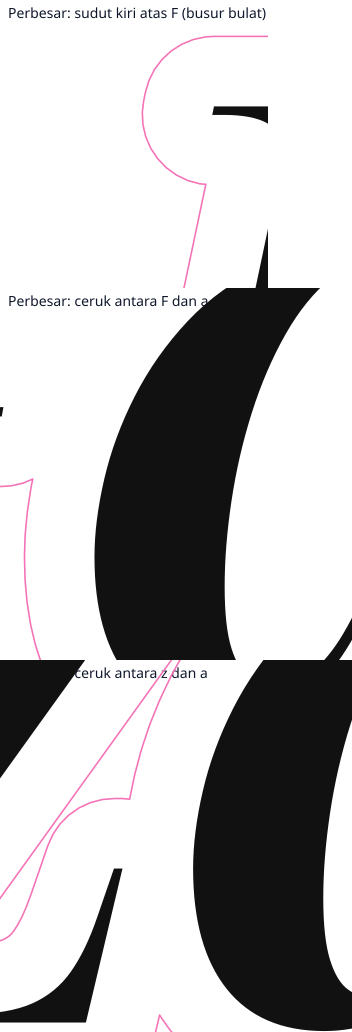
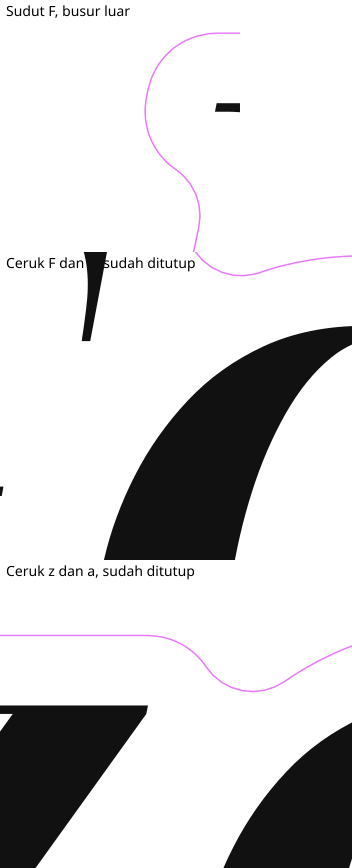
fix(contour): fill sharp letter notches without moving the outer edge
After the 2.5 mm round offset, close notches narrower than 4 mm on each
piece. The outer cut stays at 2.5 mm and a separate word space stays open.

diff --git a/lib/clipper-outline.ts b/lib/clipper-outline.ts
@@ -68,6 +68,25 @@ function clipperPathsToSvgD(paths: ClipperLib.Paths): string | null {
 }
 
 /**
+ * Fills notches narrower than `gapWidth` on each path separately.
+ * Doing it per path (not on the whole set at once) keeps two pieces that
+ * are already apart — a word space — from growing back together.
+ * Round joins, so the filled notch becomes an arc, not a flat chord.
+ */
+function closeEachPath(paths: ClipperLib.Paths, gapWidth: number, arcTolerance: number): ClipperLib.Paths {
+  if (gapWidth <= 1e-9) return paths;
+  const radius = gapWidth / 2;
+  const closed: ClipperLib.Paths = [];
+  for (const path of paths) {
+    const grown = offsetPaths([path], radius, arcTolerance);
+    const shrunk = offsetPaths(grown, -radius, arcTolerance);
+    if (shrunk.length > 0) closed.push(...shrunk);
+    else closed.push(path);
+  }
+  return keepOuterOrientation(closed);
+}
+
+/**
  * Offsets closed paths by `delta` path-units (positive = outward).
  * `arcTolerance` is the maximum distance between a true round join and the
  * straight segments that replace it, in the same units as the path — not
@@ -156,13 +175,13 @@ export interface ProductionOutlineOptions {
  *
  * 1. Union the design and drop interior holes, so the middle of "O" stays
  *    solid acrylic and the laser sees one outer silhouette.
- * 2. Optional closing (`gapClose`, default 0). Left off so inner bays keep
- *    following the letter. A non-zero value fills gaps of that width first.
- * 3. Offset outward by `offset` (default 2.5 mm) with round joins. The join
+ * 2. Offset outward by `offset` (default 2.5 mm) with round joins. The join
  *    is a circular arc of that radius. Gaps narrower than twice the offset
- *    close on their own. Curves are flattened only to `curveTolerance`
- *    (0.01 mm), which is what keeps the line from looking like straight
- *    chords when a corner is enlarged.
+ *    close on their own. A straight edge moves by exactly this distance.
+ * 3. Close each resulting piece by `gapClose` (default 4 mm). That fills
+ *    the sharp cusps left between letters without moving the outer edge
+ *    and without joining a separate word. Curves stay within
+ *    `curveTolerance` (0.01 mm).
  *
  * The old dilate(4 mm)/erode(1.5 mm) pass is not this. It closed gaps up to
  * 8 mm and then ate the bays back into flat bridges. `computeLaserOutlineClipper`
@@ -180,18 +199,15 @@ export function computeProductionOutline(shapes: string[], options: ProductionOu
     let paths = keepOuterOrientation(unionClipperPaths(subjectPaths));
     if (paths.length === 0) return null;
 
-    if (gapClose > 1e-9) {
-      const radius = gapClose / 2;
-      const grown = offsetPaths(paths, radius, curveTolerance);
-      const shrunk = offsetPaths(grown, -radius, curveTolerance);
-      if (shrunk.length > 0) paths = keepOuterOrientation(shrunk);
-    }
-
     if (offset > 1e-9) {
       const grown = offsetPaths(paths, offset, curveTolerance);
       if (grown.length === 0) return null;
       paths = keepOuterOrientation(grown);
     }
+
+    // After the offset, so the outer edge stays put. Per piece, so a word
+    // space that is already its own contour is not pulled shut.
+    paths = closeEachPath(paths, gapClose, curveTolerance);
 
     return clipperPathsToSvgD(paths);
   } catch {

diff --git a/lib/contour-outline.test.ts b/lib/contour-outline.test.ts
@@ -143,17 +143,42 @@ describe("production contour", () => {
 
   test("offset and gap threshold are configurable, and the defaults match Corel 0.25 cm", () => {
     assert.equal(OUTLINE_OFFSET_MM, 2.5);
-    assert.equal(GAP_CLOSE_MM, 0);
+    assert.equal(GAP_CLOSE_MM, 4);
 
     const wide = computeProductionOutline([rect(0, 0, 20, 10)], { offset: 1, gapClose: 0 });
     assert.ok(wide);
     const b = boundsOf(pointsOf(wide));
     assert.ok(Math.abs(-b.minX - 1) < 0.03);
 
-    const closed = computeProductionOutline([rect(0, 0, 10, 16), rect(14, 0, 10, 16)], { gapClose: 5, offset: 0 });
-    const open = computeProductionOutline([rect(0, 0, 10, 16), rect(14, 0, 10, 16)], { gapClose: 3, offset: 0 });
-    assert.equal(subpaths(closed), 1, "a 4 mm gap closes when the threshold is 5 mm");
-    assert.equal(subpaths(open), 2, "the same 4 mm gap stays open when the threshold is 3 mm");
+    // Closing is per piece, so it fills a notch but does not pull two
+    // separate shapes together. The offset is what joins a narrow gap.
+    const separate = computeProductionOutline([rect(0, 0, 10, 16), rect(14, 0, 10, 16)], { gapClose: 8, offset: 0 });
+    assert.equal(subpaths(separate), 2, "closing one piece at a time leaves a 4 mm gap as two pieces");
+  });
+
+  test("notches narrower than the threshold are filled and the outer edge stays put", () => {
+    // 8 mm bay. A 2.5 mm offset leaves a channel about 3 mm wide, which the
+    // default 4 mm close then fills. A 14 mm bay stays open.
+    const narrow = "M 0 0 H 16 V 12 H 24 V 0 H 40 V 24 H 0 Z";
+    const wideBay = "M 0 0 H 13 V 12 H 27 V 0 H 40 V 24 H 0 Z";
+    const filled = computeProductionOutline([narrow]);
+    const open = computeProductionOutline([wideBay]);
+    const spared = computeProductionOutline([narrow], { gapClose: 0 });
+    assert.ok(filled && open && spared);
+
+    const depth = (d: string) => {
+      const pts = pointsOf(d);
+      const outer = Math.min(...pts.filter((p) => p.x < 3 || p.x > 37).map((p) => p.y));
+      const floor = Math.max(...pts.filter((p) => p.x > 16 && p.x < 24).map((p) => p.y));
+      return floor - outer;
+    };
+    assert.ok(depth(spared) > 8, `without closing the channel stays deep (${depth(spared)})`);
+    assert.ok(depth(filled) < 3, `default close fills the narrow channel (${depth(filled)})`);
+    assert.ok(depth(open) > 6, `a 14 mm bay stays (${depth(open)})`);
+
+    const box = boundsOf(pointsOf(computeProductionOutline([rect(0, 0, 30, 12)])!));
+    const bare = boundsOf(pointsOf(computeProductionOutline([rect(0, 0, 30, 12)], { gapClose: 0 })!));
+    assert.ok(Math.abs(box.minX - bare.minX) < 0.02, "closing does not move the outer edge");
   });
 
   test("the 2.5 mm offset itself closes a 4 mm letter gap and leaves a 6 mm gap open", () => {

diff --git a/lib/keychain-geometry.ts b/lib/keychain-geometry.ts
@@ -89,13 +89,14 @@ export const MAX_LAYOUT_OFFSET_MM = 15;
 export const OUTLINE_OFFSET_MM = 2.5;
 
 /**
- * Extra morphological closing, applied before the offset, in mm of gap
- * width (the closing radius is half). Default 0: the 2.5 mm offset already
- * closes the small gaps between letters, and a separate closing was flattening
- * the bays the Corel sample still follows (between F and a, between z and a).
- * Raise this only when a gap wider than 2 × OUTLINE_OFFSET_MM must still join.
+ * After the 2.5 mm offset, fill concave notches narrower than this (mm).
+ * The closing radius is half of it. It runs on each already-offset piece
+ * by itself, so a straight outer edge does not move and a word space that
+ * is already a separate piece stays open. 4 mm rounds off the sharp
+ * cusps between letters in "Faza" (and the other samples) into a smooth
+ * arc without bridging the ~3 mm gap that remains between words.
  */
-export const GAP_CLOSE_MM = 0;
+export const GAP_CLOSE_MM = 4;
 
 /**
  * Round-off used only where a ring-hole washer or a character silhouette

diff --git a/lib/keychain-render.ts b/lib/keychain-render.ts
@@ -118,8 +118,8 @@ interface ScaledRenderResult {
  *
  * Kept fixed regardless of either target height (physical/hardware
  * constants, not design proportions): OUTLINE_OFFSET_MM (Corel contour
- * 0.25 cm = 2.5 mm, round join) and GAP_CLOSE_MM (extra closing, default
- * off — the offset itself bridges letter gaps),
+ * 0.25 cm = 2.5 mm, round join) and GAP_CLOSE_MM (fills sharp notches
+ * on that contour without moving the outer edge),
  * RING_HOLE_DIAMETER_MM (a fixed hardware-fit spec), and
  * MARGIN_MM/RING_HOLE_OFFSET_MM/holeOffsetX/Y (fixed real-world layout
  * spacing, not tied to either node's own size). template.dynamicGapX/

diff --git a/lib/text-ring-hole-preview.ts b/lib/text-ring-hole-preview.ts
@@ -10,7 +10,8 @@
  *   1. Text -> path: the caller's own `ColoredTextRender` (font-preview.ts).
  *   2. Contour: one outward round-join offset of OUTLINE_OFFSET_MM (2.5 mm,
  *      Corel contour 0.25 cm). Letter gaps narrower than twice that close
- *      by themselves. GAP_CLOSE_MM stays 0 unless an extra close is asked for.
+ *      by themselves. GAP_CLOSE_MM (4 mm) then fills the sharp cusps that
+ *      remain, without moving the outer edge.
  *   3. Bounding box FROM THE CONTOUR, not the raw glyph bbox.
  *   4. Hole anchor: X = contour's own leftmost point; Y = the vertical
  *      midpoint of the FIRST LETTER's own contour.

diff --git a/docs/contour/PENGUKURAN.md b/docs/contour/PENGUKURAN.md
@@ -2,7 +2,7 @@
 
 Tanggal: 10 November 2026. Koreksi satuan dari Rofiq: offset yang diminta adalah Contour CorelDRAW ke luar, 1 langkah, **0,25 cm = 2,5 mm**. Bukan 0,25 mm.
 
-Font sampel nama: DejaVu Sans. Tinggi teks jadi 20 mm (huruf mentah 15 mm, lalu offset 2,5 mm di tiap sisi). “Sebelum” adalah mesin lama: gemuk 4 mm lalu susut 1,5 mm, kurva diratakan pada 0,05 mm. Jarak luarnya juga sekitar 2,5 mm, tetapi ratakan kasar dan celah sampai 8 mm ditutup sehingga ceruk jadi rata. “Sesudah” adalah satu offset 2,5 mm dengan sambungan bulat (`jtRound`), simpangan kurva 0,01 mm, tanpa closing tambahan.
+Font sampel nama: DejaVu Sans. Tinggi teks jadi 20 mm (huruf mentah 15 mm, lalu offset 2,5 mm di tiap sisi). “Sebelum” adalah mesin lama: gemuk 4 mm lalu susut 1,5 mm, kurva diratakan pada 0,05 mm. “Sesudah” adalah offset 2,5 mm dengan sambungan bulat, lalu ceruk yang lebih sempit dari 4 mm diisi dengan closing bundar. Pinggiran luar tidak bergeser.
 
 Gambar nama: [images/perbandingan.png](images/perbandingan.png). Merah = mesin lama. Biru = kontur baru.
 
@@ -14,18 +14,17 @@ Offset adalah jarak median garis potong ke tepi huruf, dalam mm. Keping = jumlah
 
 | Nama | Offset lama | Offset baru | Titik lama | Titik baru | Keping |
 | --- | --- | --- | --- | --- | --- |
-| O | 2,50 | 2,50 | 335 | 128 | 1 → 1 |
-| BOBO | 2,50 | 2,50 | 1.060 | 322 | 1 → 1 |
-| Ali | 2,50 | 2,50 | 876 | 113 | 1 → 1 |
-| Siti | 2,50 | 2,50 | 994 | 234 | 1 → 1 |
-| Qonita | 2,50 | 2,50 | 1.514 | 381 | 1 → 1 |
-| Muhammad Al-Fatih | 2,50 | 2,50 | 5.705 | 1.156 | 2 → 2 |
-| Faza (22 mm) | 2,50 | 2,50 | 1.816 | 455 | 1 → 1 |
-| Faza (tinggi produksi 15 mm) | — | 2,50 | — | 284 | 1 |
+| O | 2,50 | 2,50 | 335 | 233 | 1 → 1 |
+| BOBO | 2,50 | 2,50 | 1.060 | 520 | 1 → 1 |
+| Ali | 2,50 | 2,49 | 876 | 219 | 1 → 1 |
+| Siti | 2,50 | 2,50 | 994 | 379 | 1 → 1 |
+| Qonita | 2,50 | 2,50 | 1.514 | 592 | 1 → 1 |
+| Muhammad Al-Fatih | 2,50 | 2,50 | 5.705 | 1.694 | 2 → 2 |
+| Faza (22 mm) | 2,50 | 2,50 | 1.816 | 682 | 1 → 1 |
 
 Dua keping pada nama panjang adalah spasi kata, yang lebih lebar dari 5 mm, jadi tidak disambung. Itu sama dengan mesin lama.
 
-Kotak dengan celah 4 mm menjadi satu keping. Celah 6 mm tetap dua keping. Sudut kotak terukur sebagai busur jari-jari 2,5 mm, simpangan tali busur di bawah 0,02 mm. Teluk lebar 12 mm tidak ditutup rata. Lingkaran yang di-offset 2,5 mm menyimpang kurang dari 0,02 mm dari lingkaran sungguhan.
+Kotak dengan celah 4 mm menjadi satu keping karena offset. Celah 6 mm tetap dua keping. Sudut kotak terukur sebagai busur jari-jari 2,5 mm. Teluk yang tersisa sekitar 3 mm sesudah offset diisi oleh ambang 4 mm. Teluk 14 mm tetap terbuka. Pinggiran luar kotak tidak bergeser saat ceruk ditutup. Lingkaran yang di-offset 2,5 mm menyimpang kurang dari 0,02 mm dari lingkaran sungguhan.
 
 Lubang 1,9 mm: file lama sekitar 16 sisi. File baru entity `CIRCLE` jari-jari 0,95 mm.
 
@@ -36,6 +35,6 @@ Jumlah titik turun (nama panjang 5.705 menjadi 1.156) karena toleransi busur tid
 Di `lib/keychain-geometry.ts`:
 
 - `OUTLINE_OFFSET_MM` — jarak kontur. Bawaan 2,5.
-- `GAP_CLOSE_MM` — closing tambahan sebelum offset. Bawaan 0. Naikkan hanya jika ada celah lebih lebar dari 5 mm yang harus disambung.
+- `GAP_CLOSE_MM` — lebar ceruk yang diisi sesudah offset. Bawaan 4. Radiusnya 2 mm. Naikkan jika masih ada takik tipis. Turunkan jika lekukan huruf yang ingin dipertahankan ikut hilang. Spasi kata tidak tersambung selama kepingnya sudah terpisah.
 - `SEAM_ROUND_MM` — fillet kecil (0,6 mm) hanya di sambungan washer atau karakter, bukan offset kedua.
 - `CURVE_TOLERANCE_MM` — 0,01. Menaikkannya membuat garis lebih patah. Menurunkannya memperbanyak titik.

diff --git a/docs/ARCHITECTURE.md b/docs/ARCHITECTURE.md
@@ -82,7 +82,7 @@ Menghapus resi (`DELETE /api/orders/[id]`) ikut menghapus item pesanan dan item 
 ## Mesin gambar dan nesting
 
 - `lib/keychain-render.ts` — mode dinamis. Teks dari font, garis potong dengan Clipper, lubang cincin, batas lebar 80 mm.
-- `lib/clipper-outline.ts` — `computeProductionOutline`. Ini padanan Contour CorelDRAW ke luar, 1 langkah: gabungkan bentuk, buang lubang dalam huruf, lalu geser keluar `OUTLINE_OFFSET_MM` (2,5 mm, yaitu 0,25 cm) dengan sambungan bulat. Jari-jari busur sudut sama dengan offset. Celah yang lebih sempit dari 5 mm menyatu karena offset itu. `GAP_CLOSE_MM` bawaan 0 — closing tambahan meratakan ceruk yang di sampel Corel masih mengikuti lekukan. Pratinjau memakai fungsi yang sama, satuannya piksel. Mode tetap tidak memanggil offset ini. Sambungan washer/karakter hanya difillet `SEAM_ROUND_MM` (0,6 mm), tanpa offset kedua.
+- `lib/clipper-outline.ts` — `computeProductionOutline`. Ini padanan Contour CorelDRAW ke luar, 1 langkah, lalu penutup ceruk: gabungkan bentuk, buang lubang dalam huruf, geser keluar `OUTLINE_OFFSET_MM` (2,5 mm, yaitu 0,25 cm) dengan sambungan bulat. Celah yang lebih sempit dari 5 mm menyatu karena offset itu. Sesudahnya tiap keping ditutup dengan closing bundar selebar `GAP_CLOSE_MM` (bawaan 4 mm, radius 2 mm) supaya ceruk tajam antar huruf jadi busur, tanpa menggeser pinggiran luar dan tanpa menyambung spasi kata yang sudah terpisah. Pratinjau memakai fungsi yang sama, satuannya piksel. Mode tetap tidak memanggil offset ini. Sambungan washer/karakter hanya difillet `SEAM_ROUND_MM` (0,6 mm), tanpa offset kedua.
 - `lib/export-dxf.ts` — garis potong menjadi polyline dengan simpangan kurva paling besar `CURVE_TOLERANCE_MM` (0,01 mm), sambungan bulat. Lubang gantungan yang masih berupa lingkaran ditulis sebagai entity `CIRCLE`, termasuk setelah path-nya diubah paper.js menjadi kurva kubik dan setelah keping diputar 90 derajat.
 - `lib/keychain-render-fixed.ts` — mode tetap. SVG master sudah punya garis potong. Aplikasi hanya menaruh teks atau foto di zona.
 - `lib/render-dispatcher.ts` — memilih renderer sesuai `layoutMode`.

diff --git a/docs/PRD.md b/docs/PRD.md
@@ -142,7 +142,7 @@ Yang belum diputuskan ada di bagian nesting. Jawaban kontur sudah ditulis di baw
 Rofiq menjawab pada 10 November 2026. Angkanya ada di `lib/keychain-geometry.ts`. Ukurannya ada di [docs/contour/PENGUKURAN.md](contour/PENGUKURAN.md).
 
 1. Jarak garis potong dari tepi desain = **2,5 mm** (`OUTLINE_OFFSET_MM`). Itu Contour CorelDRAW ke luar, 1 langkah, offset **0,25 cm**. Angka 0,25 mm yang sempat ditulis adalah salah satuan. Pada sampel, median terukur 2,50 mm. Sudut cembung jadi busur bulat dengan jari-jari 2,5 mm (round join).
-2. Celah kecil antar huruf tertutup karena offset itu sendiri: celah lebih sempit dari 5 mm menyatu. Spasi kata sekitar 8–10 mm tetap terbuka. `GAP_CLOSE_MM` bawaan 0. Closing morfologi tambahan tidak dipakai, karena itu meratakan ceruk yang di sampel Corel masih mengikuti lekukan huruf (antara F dan a, antara z dan a).
+2. Celah kecil antar huruf yang lebih sempit dari 5 mm menyatu karena offset 2,5 mm. Setelah itu, ceruk tajam yang tersisa di dalam siluet (antara F dan a, antara z dan a, dan lekukan sempit di sambungan) ditutup dengan closing bundar. Ambang bawaan `GAP_CLOSE_MM` = **4 mm**: ceruk yang lebih sempit dari itu diisi jadi busur mulus. Closing dijalankan per keping sesudah offset, jadi pinggiran luar tidak bergeser dari 2,5 mm, dan spasi kata yang sudah terpisah tetap terbuka. Angka ini bisa diubah di `lib/keychain-geometry.ts`.
 3. Lubang dalam huruf (tengah O) dan mata gambar tetap tidak dipotong. Lubang dalam yang kecil pada siluet luar tertutup oleh offset 2,5 mm. Yang ditutup adalah celah, bukan garis potong di dalam huruf.
 4. Foto PNG tanpa vektor tetap menjadi kotak. Layar template sekarang memperingatkan “bukan vektor”.
 5. Kurva diratakan dengan simpangan paling besar 0,01 mm supaya busur tidak terlihat patah saat diperbesar. Lubang gantungan 1,9 mm di file DXF ditulis sebagai lingkaran, bukan segi 16.

diff --git a/docs/ROADMAP.md b/docs/ROADMAP.md
@@ -19,7 +19,7 @@ Yang terukur pada mesin lama, sebelum angka diubah: offset 2,50 mm, celah antar 
 Yang dipakai sekarang:
 
 - `OUTLINE_OFFSET_MM` = 2,5. Itu 0,25 cm di CorelDRAW (Contour ke luar, 1 langkah). Pada enam sampel nama plus “Faza”, median offset 2,50 mm. Sudut cembung adalah busur jari-jari 2,5 mm.
-- Celah antar huruf lebih sempit dari 5 mm tertutup oleh offset itu. `GAP_CLOSE_MM` bawaan 0 supaya ceruk dalam (antara F dan a, antara z dan a) tetap mengikuti lekukan, tidak diratakan. Spasi kata tetap terbuka.
+- Celah antar huruf lebih sempit dari 5 mm tertutup oleh offset itu. `GAP_CLOSE_MM` = 4 mengisi ceruk yang lebih sempit dari 4 mm pada siluet yang sudah di-offset, dengan busur bundar. Pinggiran luar tetap 2,5 mm. Spasi kata tetap terbuka karena closing dijalankan per keping.
 - Lubang dalam huruf O tidak dipotong, sesuai keputusan.
 - PNG tanpa vektor memunculkan peringatan di layar template.
 - Lubang gantungan di DXF adalah lingkaran. Tes gagal jika offset kotak menyimpang lebih dari 0,03 mm dari 2,5, jika sudutnya bukan busur jari-jari 2,5 mm, jika celah 4 mm tidak tersambung, atau jika lubang DXF bukan `CIRCLE`.
